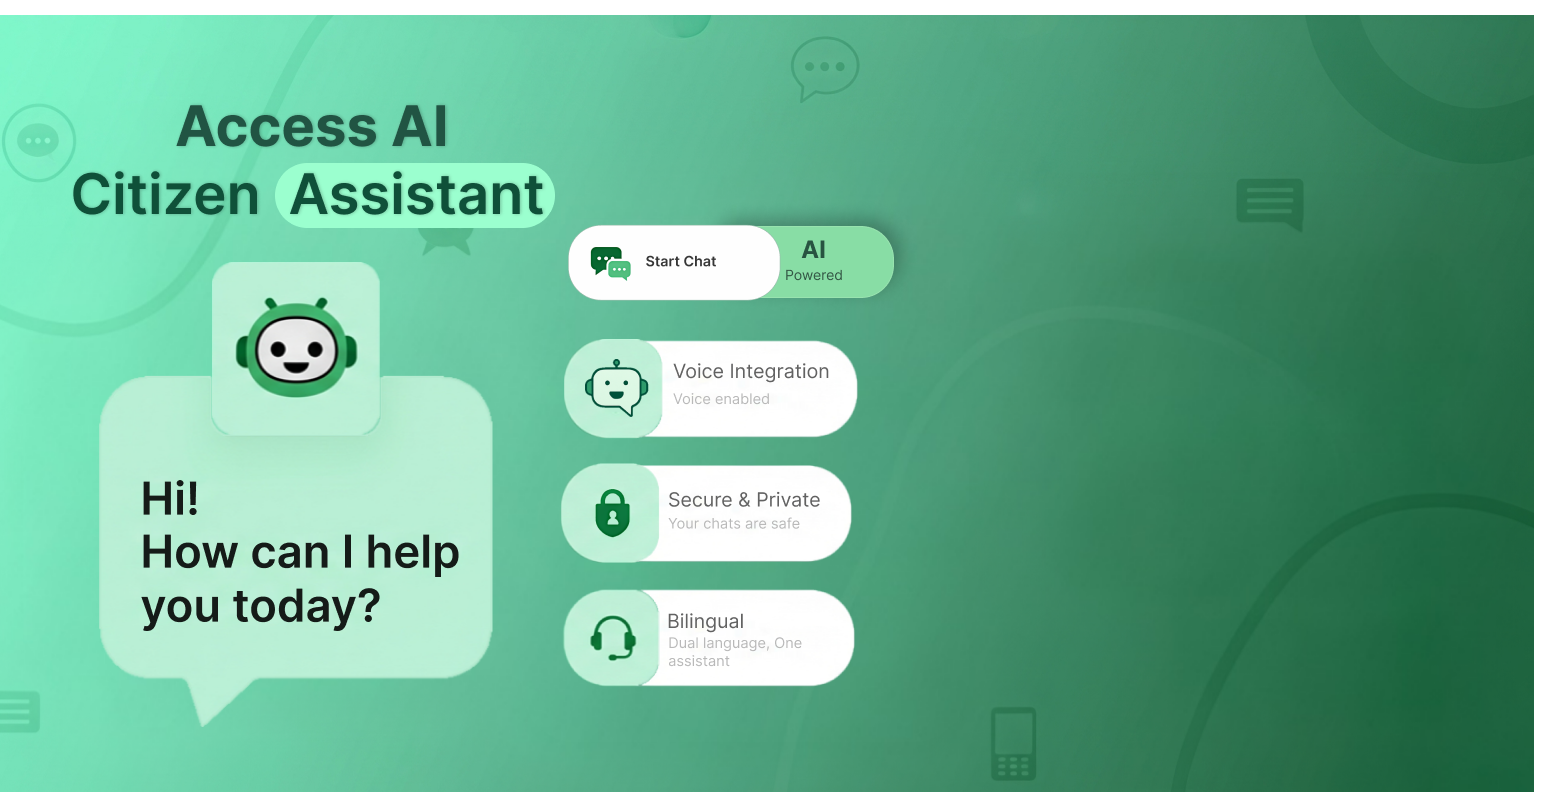
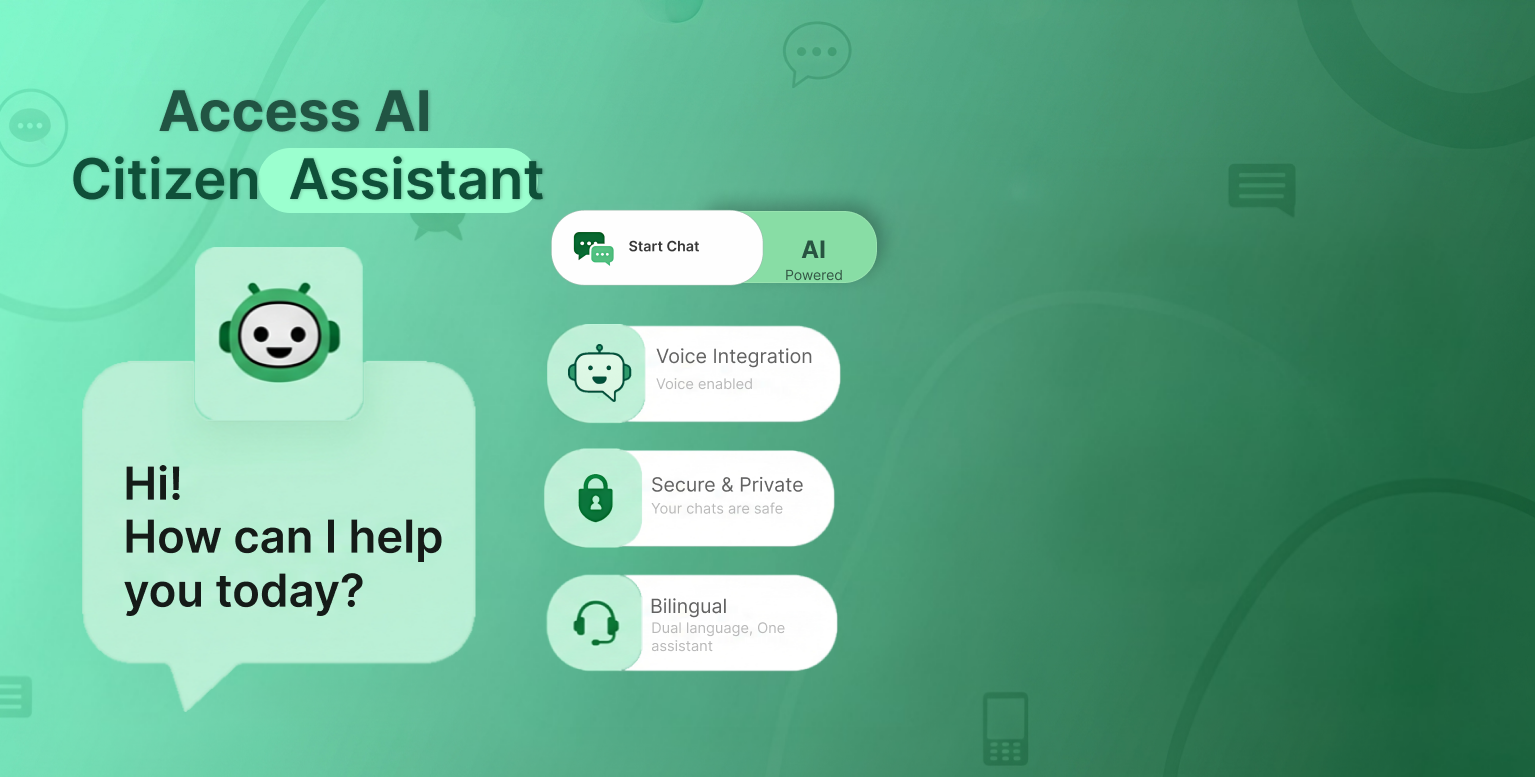
fix: zoom

Changed region(s): [[0.0306, 0.1236, 0.5818, 0.9266], [0.0, 0.0, 1.0, 1.0], [0.1531, 0.834, 0.3062, 0.8649]]

diff --git a/client/pages/Index.css b/client/pages/Index.css
@@ -108,13 +108,12 @@
 /* Hero Section Styles */
 .hero-section {
   position: relative;
-  width: 100%;
-  max-width: 1535px;
-  height: 100vh;
-  min-height: 600px;
+  width: 100vw;
+  height: calc(100vh - 102px);
+  min-height: 650px;
   overflow: hidden;
-  margin: 0 auto;
-  margin-top: 0;
+  margin: 0;
+  margin-left: calc(-50vw + 50%);
 }
 
 .hero-background {
